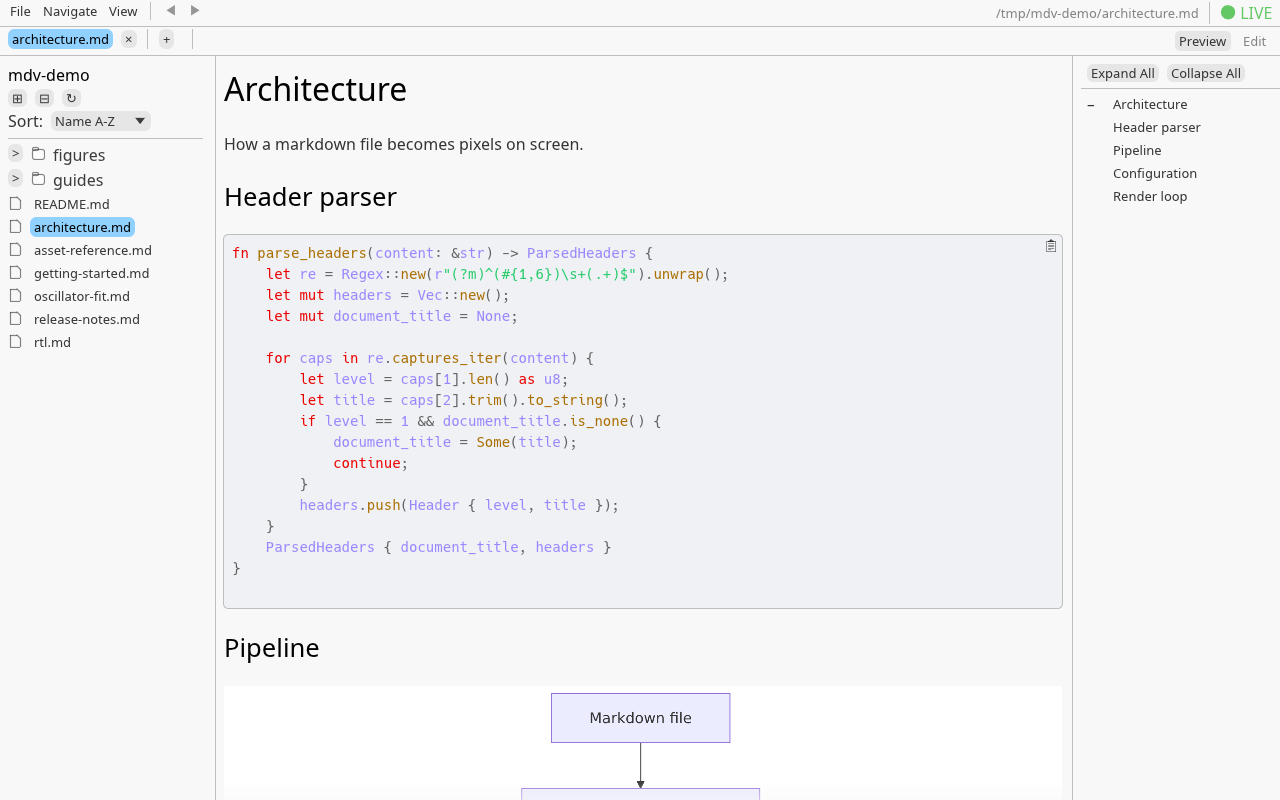
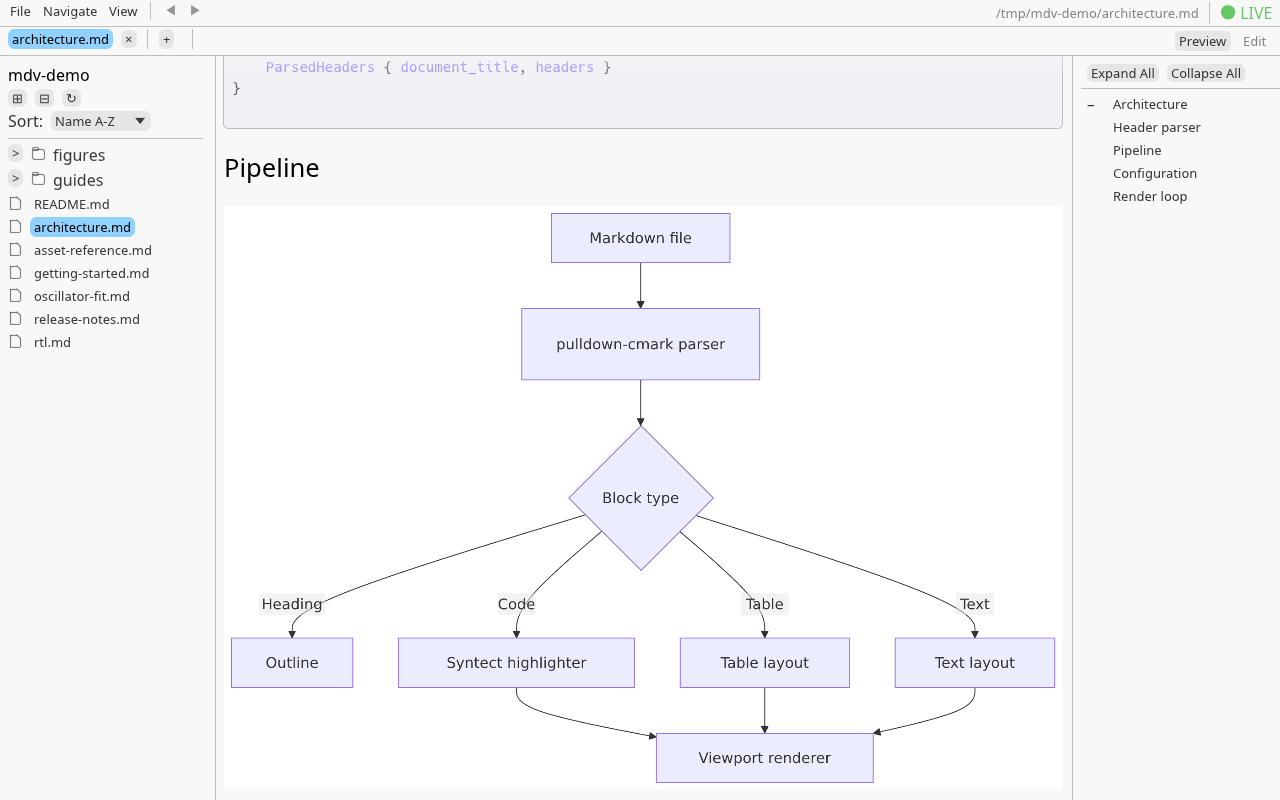
docs(readme): retake theme pair and table screenshots
The dark/light pair now shows the whole Pipeline flowchart instead of
its top box, at the same offset in both themes; the caption names what
is on screen. tables.png and view-menu.png are retaken with the
inline-code column floor from #248, so short code no longer touches the
column divider.

Claude-Session: https://claude.ai/code/session_01C91oNMnWC12kHa4BKpxh3H

diff --git a/docs/devlog/097-readme-shots.md b/docs/devlog/097-readme-shots.md
@@ -1,0 +1,18 @@
+# 097 — README screenshot touch-up
+
+**Branch:** docs/readme-shots
+**Date:** 2026-11-16
+**Status:** Done
+
+## Scope
+Retake four README screenshots on main @ 9cef86c, which now has #247 and #248:
+
+- `dark-mode.png` / `light-mode.png`: the caption promised mermaid diagrams, but only the top box of the Pipeline flowchart was on screen. Scrolled three wheel steps so the whole flowchart and the end of the highlighted code block are visible, at the same offset in both themes. Caption now names what is shown.
+- `tables.png`, `view-menu.png`: taken before the inline-code column floor (#248), so the `budget` chip touched its column divider. Retaken with the floor.
+
+## Key Discoveries
+- The demo folder `/tmp/mdv-demo` had picked up two test fixtures from the #247/#248 work (`tablecode.md`, `tablemath.md`). They showed up in the explorer and were moved out before capturing.
+- egui shows the floating scrollbar while the pointer is over the document. Park the pointer in a corner before each capture.
+
+## Future Improvements
+- None.

diff --git a/README.md b/README.md
@@ -72,7 +72,7 @@ A fast, lightweight markdown viewer for Linux, with Windows and macOS builds too
 
 ![The View menu](screenshots/view-menu.png)
 
-*The same document on both themes — syntax highlighting, mermaid diagrams and both sidebars*
+*The same document on both themes — a mermaid flowchart, highlighted code and both sidebars*
 
 | Dark | Light |
 |---|---|
